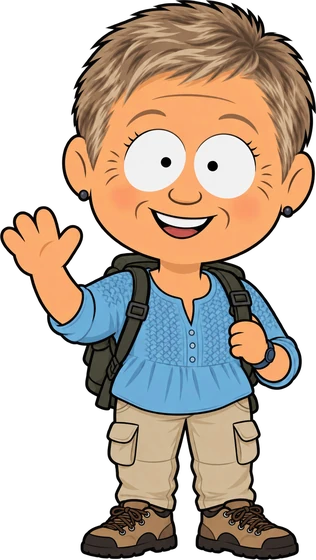
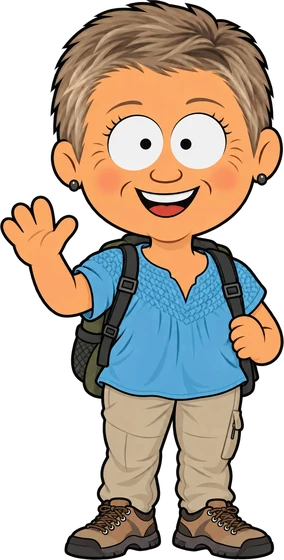
Nieuwe tekening van Lucie
Claude-Session: https://claude.ai/code/session_01KSBcXgUPKmmatokQUs3yxY

diff --git a/index.html b/index.html
@@ -135,7 +135,7 @@ canvas{display:block;width:min(100vw, calc(100dvh * 16 / 9));height:auto;aspect-
     <button class="tile" id="go-tekst"><span class="tile-lyr"><span>Twenty-two strangers flew in from the cold</span><span>Sydney was shining, the Blue Mountains old</span><b>WOO... SHAAAAAA!</b><span>Down Under we go and we’re having a blast</span></span><span class="tile-body"><span class="tile-t">De songtekst</span><span class="tile-s">Het hele lied om mee te lezen</span></span></button>
     <button class="tile" id="go-mates"><span class="tile-mates"><img src="img/lisette.webp" alt=""><img src="img/kees.webp" alt=""><img src="img/coby.webp" alt=""><img src="img/john.webp" alt=""></span><span class="tile-body"><span class="tile-t">De mates</span><span class="tile-s">De hele groep, één voor één</span></span></button>
   </div>
-  <p class="stamp">versie 26-10 19.22</p>
+  <p class="stamp">versie 26-10 20.02</p>
 </div>
 <section class="lyrics mates" id="mates" hidden aria-label="De mates">
   <div class="lyr-bar"><button class="pill" id="mates-terug"><svg viewBox="0 0 24 24" aria-hidden="true"><path fill="none" stroke="currentColor" stroke-width="2.6" stroke-linecap="round" stroke-linejoin="round" d="M15 5l-7 7 7 7"/></svg>Terug</button><button class="pill primary" id="mates-film"><svg viewBox="0 0 24 24" aria-hidden="true"><path fill="currentColor" d="M6 3.5v17a1 1 0 0 0 1.5.86l14-8.5a1 1 0 0 0 0-1.72l-14-8.5A1 1 0 0 0 6 3.5z"/></svg>Film bekijken</button></div>
@@ -159,8 +159,8 @@ const $ = id => document.getElementById(id);
 const DECORS = ['01-outback-nacht','02-sydney','03-blue-mountains','04-outback-weg','05-touringcar-binnen','06-touringcar-nacht','07-cradle-mountain','08-wineglass-bay','09-bos-nacht','10-halls-gap','11-twelve-apostles','12-uluru'];
 const MATES = ['tanja','betty','ed','william','gijsje','adrie','nellie','dick','anne','john','coby','lut','dirk','geert','lucie','els','erik'];
 // per traveller: a size correction so heads look alike, and where the head sits in the picture [centre x, head height]
-const SIZE = {"robbert":0.992,"lisette":1.035,"gemma":0.938,"kees":0.938,"henk":1.035,"tanja":0.973,"betty":1.035,"ed":0.938,"william":0.973,"gijsje":0.973,"adrie":1.035,"nellie":0.992,"dick":1.034,"anne":0.921,"john":0.955,"coby":0.973,"lut":0.973,"dirk":0.992,"geert":1.013,"els":0.955,"erik":0.955,"lucie":0.955};
-const HEADBOX = {"robbert":[132.8,233.3],"lisette":[117.4,214.7],"gemma":[151.9,261.3],"kees":[170.5,261.3],"henk":[126.6,214.7],"tanja":[134.6,242.7],"betty":[197.9,214.7],"ed":[184.5,261.3],"william":[156.7,242.7],"gijsje":[124.6,242.7],"adrie":[104.9,214.7],"nellie":[116.2,233.3],"dick":[171.7,214.7],"anne":[149.2,270.7],"john":[171.8,252.0],"coby":[180.0,242.7],"lut":[132.3,242.7],"dirk":[181.5,233.3],"geert":[111.2,224.0],"els":[181.1,252.0],"erik":[129.5,252.0],"lucie":[184.0,252.0],"chauffeuse-staand":[155.1,235.2]};
+const SIZE = {"robbert":0.992,"lisette":1.035,"gemma":0.938,"kees":0.938,"henk":1.035,"tanja":0.973,"betty":1.035,"ed":0.938,"william":0.973,"gijsje":0.973,"adrie":1.035,"nellie":0.992,"dick":1.034,"anne":0.921,"john":0.955,"coby":0.973,"lut":0.973,"dirk":0.992,"geert":1.013,"els":0.955,"erik":0.955,"lucie":0.983};
+const HEADBOX = {"robbert":[132.8,233.3],"lisette":[117.4,214.7],"gemma":[151.9,261.3],"kees":[170.5,261.3],"henk":[126.6,214.7],"tanja":[134.6,242.7],"betty":[197.9,214.7],"ed":[184.5,261.3],"william":[156.7,242.7],"gijsje":[124.6,242.7],"adrie":[104.9,214.7],"nellie":[116.2,233.3],"dick":[171.7,214.7],"anne":[149.2,270.7],"john":[171.8,252.0],"coby":[180.0,242.7],"lut":[132.3,242.7],"dirk":[181.5,233.3],"geert":[111.2,224.0],"els":[181.1,252.0],"erik":[129.5,252.0],"lucie":[166.0,238.0],"chauffeuse-staand":[155.1,235.2]};
 // couples walk and appear together
 const UNITS = [['adrie','nellie'],['anne','john'],['betty'],['dick','coby'],['els','erik'],['geert','lucie'],['gemma'],['gijsje'],['henk'],['kees'],['lisette'],['lut','dirk'],['robbert'],['tanja'],['william','ed']];
 // every time the film loads, the scenes get a fresh mix of travellers; couples stay together and everyone takes turns
